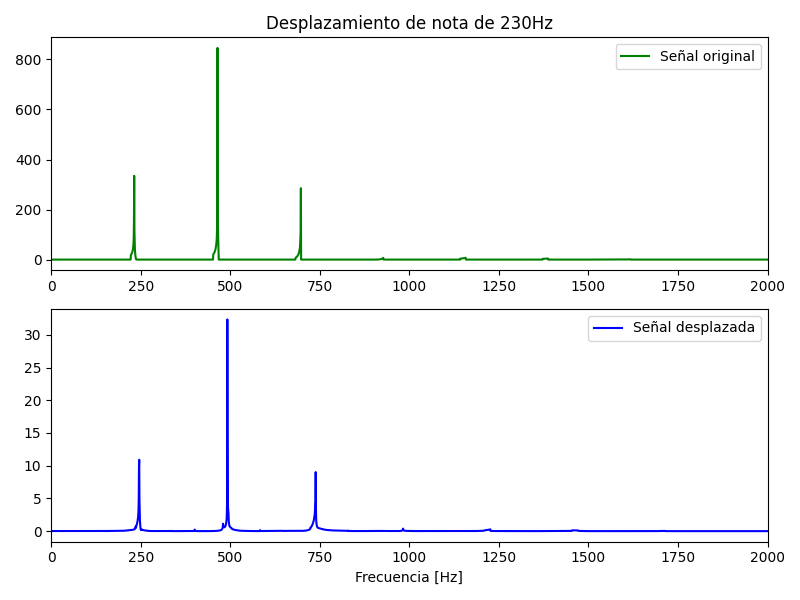
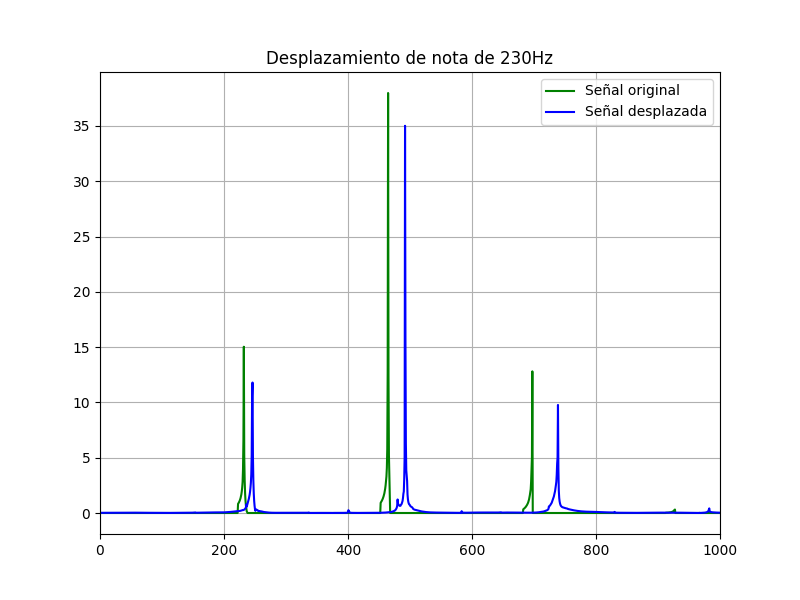
más TP3 señales wiiii (ayuda or favor)

diff --git a/Señales y Sistemas/scripts_y_recursos/script_tp3_pitch_shift.py b/Señales y Sistemas/scripts_y_recursos/script_tp3_pitch_shift.py
@@ -1,3 +1,5 @@
+from cProfile import label
+
 import numpy as np
 import matplotlib.pyplot as plt
 import librosa as lib
@@ -17,50 +19,72 @@ def procesar_y_graficar(fragmento, nota):
     # Nombre del archivo de audio
     audio_notas = f"notas_musicales_filtradas{frecuencia_nota}.wav"
 
+
     # Cargar la data en la matriz, con su frecuencia de muestreo Fs
     Fs1, data_notas = waves.read(audio_notas)
-
-    # Transformada de Fourier (FFT) de la señal original
-    Tf_senal_original = np.fft.fft(data_notas, norm="forward")
-    L_primer_nota = len(data_notas)
-    M_Tf_senal_original = abs(Tf_senal_original[:L_primer_nota // 2])
-    F_senal_original = (Fs1 / L_primer_nota) * np.arange(0, L_primer_nota // 2)
 
     # Normalización de la señal
     data_notas_normalizada = data_notas / np.max(np.abs(data_notas), axis=0)
 
+    # Transformada de Fourier (FFT) de la señal original
+    Tf_senal_original = np.fft.fft(data_notas_normalizada, norm="ortho")
+    L_primer_nota = len(data_notas_normalizada)
+    M_Tf_senal_original = abs(Tf_senal_original[:L_primer_nota // 2])
+    F_senal_original = (Fs1 / L_primer_nota) * np.arange(0, L_primer_nota // 2)
+
+
     # Desplazamiento de la nota (pitch shift)
     datos_shifteados = lib.effects.pitch_shift(data_notas_normalizada, sr=Fs1, n_steps=1)
 
+    datos_shifteados_normalizados = datos_shifteados / np.max(np.abs(datos_shifteados), axis=0)
+
     # FFT de la señal desplazada
-    Tf_senal_shifteada = np.fft.fft(datos_shifteados, norm="ortho")
-    L_primer_nota = len(datos_shifteados)
+    Tf_senal_shifteada = np.fft.fft(datos_shifteados_normalizados, norm="ortho")
+    L_primer_nota = len(datos_shifteados_normalizados)
     M_Tf_senal_shifteada = abs(Tf_senal_shifteada[:L_primer_nota // 2])
     F_senal_shifteada = (Fs1 / L_primer_nota) * np.arange(0, L_primer_nota // 2)
 
+
+    plt.figure(figsize=(8, 6))
+
+    plt.plot(F_senal_original,M_Tf_senal_original, 'g-', label="Señal original")
+    plt.title(f"Desplazamiento de nota de {frecuencia_nota}Hz")
+    plt.grid()
+    plt.plot(F_senal_shifteada, M_Tf_senal_shifteada, "b-", label= "Señal desplazada")
+
+    if fragmento == 0:
+        plt.xlim([0, 1000])
+    elif fragmento == 1:
+        plt.xlim([0, 650])
+
+    plt.legend()
+
+
+    # DESCOMENTAR PARA GRAFICAR LAS DOS SEÑALES EN GRAFICOS DISTINTOS
+
     # Crear la figura y los subgráficos (2 filas, 1 columna)
-    fig, (ax1, ax2) = plt.subplots(2, 1, figsize=(8, 6))  # 2 filas, 1 columna
+    #fig, (ax1, ax2) = plt.subplots(2, 1, figsize=(8, 6))  # 2 filas, 1 columna
 
-    # Graficar la primera función en el primer subgráfico (arriba)
-    ax1.plot(F_senal_original, M_Tf_senal_original, 'g-', label='Señal original')
-    ax1.set_title(f"Desplazamiento de nota de {frecuencia_nota}Hz")
-    if fragmento == 0:
-        ax1.set_xlim([0, 2000])
-    elif fragmento == 1:
-        ax1.set_xlim([0, 1000])
-    ax1.legend()
-
-    # Graficar la segunda función en el segundo subgráfico (abajo)
-    ax2.plot(F_senal_shifteada, M_Tf_senal_shifteada, 'b-', label='Señal desplazada')
-    if fragmento == 0:
-        ax2.set_xlim([0, 2000])
-    elif fragmento == 1:
-        ax2.set_xlim([0, 1000])
-    ax2.set_xlabel("Frecuencia [Hz]")
-    ax2.legend()
-
-    # Ajustar el espacio entre los subgráficos
-    plt.tight_layout()
+    # # Graficar la primera función en el primer subgráfico (arriba)
+    # ax1.plot(F_senal_original, M_Tf_senal_original, 'g-', label='Señal original')
+    # ax1.set_title(f"Desplazamiento de nota de {frecuencia_nota}Hz")
+    # if fragmento == 0:
+    #     ax1.set_xlim([0, 2000])
+    # elif fragmento == 1:
+    #     ax1.set_xlim([0, 1000])
+    # ax1.legend()
+    #
+    # # Graficar la segunda función en el segundo subgráfico (abajo)
+    # ax2.plot(F_senal_shifteada, M_Tf_senal_shifteada, 'b-', label='Señal desplazada')
+    # if fragmento == 0:
+    #     ax2.set_xlim([0, 2000])
+    # elif fragmento == 1:
+    #     ax2.set_xlim([0, 1000])
+    # ax2.set_xlabel("Frecuencia [Hz]")
+    # ax2.legend()
+    #
+    # # Ajustar el espacio entre los subgráficos
+    # plt.tight_layout()
 
 # Ejecutar con todas las combinaciones de fragmento y nota (0 o 1)
 for fragmento in [0, 1]:

diff --git a/Señales y Sistemas/scripts_y_recursos/script_interpolador.py b/Señales y Sistemas/scripts_y_recursos/script_interpolador.py
@@ -1,0 +1,25 @@
+import numpy as np
+
+
+def interpolador(senal, largo, factor):
+    salida = np.zeros(largo*factor)
+
+    for i in range(0,largo):
+        salida[i*(factor+1)] = senal[i]
+
+    # print(salida)
+
+    # for i in range(largo):
+    #     m = (senal[i]-senal[i])/(ceros+1)
+    #     for j in range(1,ceros+1):
+    #         salida[i*(ceros)+j] = m*j + senal[i]
+
+    return salida
+
+
+
+senal = np.array([0,1,2,3,4,5,6,7,8,9])
+
+print(interpolador(senal,10,4))
+
+
